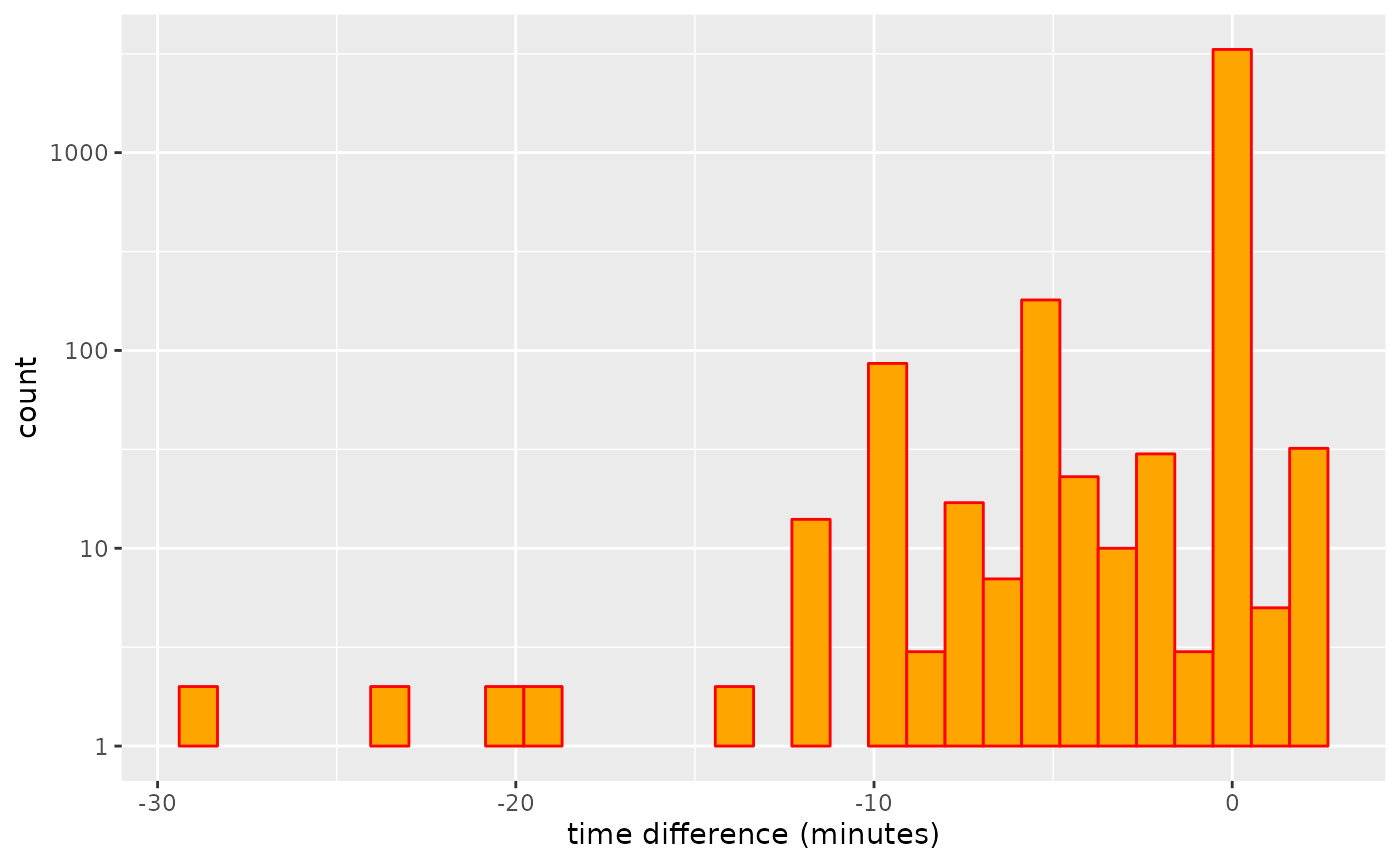
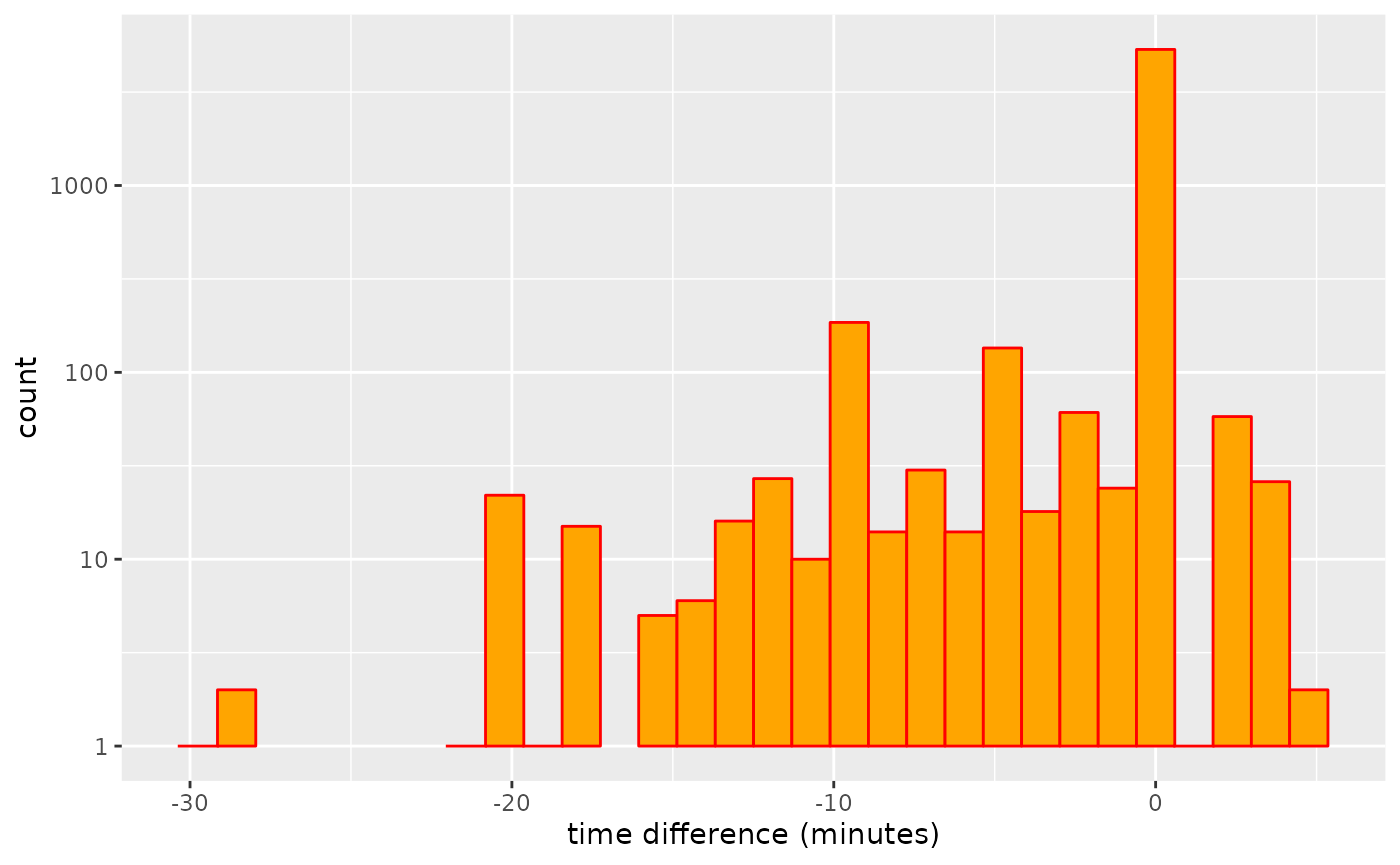
Deploying to gh-pages from @ ATFutures/gtfs-router@daab5e3dba100718a927b354c7a7a9c2231aa080 🚀

diff --git a/docs/articles/transfers.html b/docs/articles/transfers.html
@@ -33,7 +33,7 @@
       </button>
       <span class="navbar-brand">
         <a class="navbar-link" href="../index.html">gtfsrouter</a>
-        <span class="version label label-default" data-toggle="tooltip" data-placement="bottom" title="">0.0.5.096</span>
+        <span class="version label label-default" data-toggle="tooltip" data-placement="bottom" title="">0.0.5.100</span>
       </span>
     </div>
 
@@ -447,7 +447,7 @@
 <span>    <span class="fu"><a href="https://ggplot2.tidyverse.org/reference/scale_continuous.html" class="external-link">scale_y_log10</a></span> <span class="op">(</span><span class="op">)</span> <span class="op">+</span></span>
 <span>    <span class="fu"><a href="https://ggplot2.tidyverse.org/reference/labs.html" class="external-link">xlab</a></span> <span class="op">(</span><span class="st">"time difference (minutes)"</span><span class="op">)</span></span></code></pre></div>
 <p><img src="transfers_files/figure-html/plot1-1.png" width="700"></p>
-<p>And these additional transfer possibilities can make a significant difference to estimated travel times. Note, however, that the travel times only changed for 416 stations, while the value of <code>nsame</code> value recording numbers of stations for which travel times did not change was 3,536. Travel times may also increase as additional transfers may be used to reduce numbers of connecting services required for a particular trip, and the algorithm generally searches for connections with minimal numbers of transfers.</p>
+<p>And these additional transfer possibilities can make a significant difference to estimated travel times. Note, however, that the travel times only changed for 669 stations, while the value of <code>nsame</code> value recording numbers of stations for which travel times did not change was 5,384. Travel times may also increase as additional transfers may be used to reduce numbers of connecting services required for a particular trip, and the algorithm generally searches for connections with minimal numbers of transfers.</p>
 <p>The following code the quantifies the overall effect of these reductions in travel times, measured as the linear reduction in comparison with travel times calculated using the original transfers table provided with the feed. The function also returns the proportion of all stations for which travel times were affected by the modified transfer table.</p>
 <div class="sourceCode" id="cb42"><pre class="downlit sourceCode r">
 <code class="sourceCode R"><span><span class="va">transfer_difference</span> <span class="op">&lt;-</span> <span class="kw">function</span> <span class="op">(</span><span class="va">gtfs</span>,</span>
@@ -514,7 +514,7 @@
 <span>    <span class="fu"><a href="https://ggplot2.tidyverse.org/reference/geom_point.html" class="external-link">geom_point</a></span> <span class="op">(</span>pch <span class="op">=</span> <span class="fl">19</span>, col <span class="op">=</span> <span class="st">"orange"</span><span class="op">)</span> <span class="op">+</span></span>
 <span>    <span class="fu"><a href="https://ggplot2.tidyverse.org/reference/geom_smooth.html" class="external-link">geom_smooth</a></span> <span class="op">(</span>method <span class="op">=</span> <span class="st">"loess"</span>, formula <span class="op">=</span> <span class="st">"y ~ x"</span><span class="op">)</span></span></code></pre></div>
 <p><img src="transfers_files/figure-html/transfer_d_limit_results-1.png" width="700"></p>
-<p>That result shows that travel times do decrease with increasing limits of maximal transfer distance, although the overall effect is very minimal. The object <code>d</code> also records the proportion of station pairs for which modifications to the transfers table actually changed travel times, which in this case amounts to a mean value of 0.0053, clearly revealing that very few trips actually change.</p>
+<p>That result shows that travel times do decrease with increasing limits of maximal transfer distance, although the overall effect is very minimal. The object <code>d</code> also records the proportion of station pairs for which modifications to the transfers table actually changed travel times, which in this case amounts to a mean value of 0.0038, clearly revealing that very few trips actually change.</p>
 <div class="section level3">
 <h3 id="a-more-realistic-example">A more realistic example<a class="anchor" aria-label="anchor" href="#a-more-realistic-example"></a>
 </h3>

diff --git a/docs/articles/gtfsrouter.html b/docs/articles/gtfsrouter.html
@@ -33,7 +33,7 @@
       </button>
       <span class="navbar-brand">
         <a class="navbar-link" href="../index.html">gtfsrouter</a>
-        <span class="version label label-default" data-toggle="tooltip" data-placement="bottom" title="">0.0.5.096</span>
+        <span class="version label label-default" data-toggle="tooltip" data-placement="bottom" title="">0.0.5.100</span>
       </span>
     </div>
 
@@ -95,7 +95,7 @@
 <p>The one thing neither of these packages enable is the use of GTFS data for transit routing. The <code>gtfsrouter</code> package enables both one-to-one and one-to-many routing. Functionality is demonstrated here through the sample data set included with the package, provided by the “Verkehrsverbund Berlin-Brandenburg” (VBB; or Transport Network Berlin-Brandenburg). The <code>berlin_gtfs</code> data represents a reduced version of the full GTFS data, containing only six tables, and a timetable reduced to the single hour between 12:00-13:00. Like all GTFS software including <a href="https://github.com/r-transit/tidytransit" class="external-link"><code>tidytransit</code></a>, this package is designed to work directly with GTFS data in <code>.zip</code>-archived format, and so includes a helper function, <code><a href="../reference/berlin_gtfs_to_zip.html">berlin_gtfs_to_zip()</a></code>, which exports the internal data set to a locally-stored <code>.zip</code> archive in the <code><a href="https://rdrr.io/r/base/tempfile.html" class="external-link">tempdir()</a></code> of the current <strong>R</strong> session. These data can be exported and re-imported with:</p>
 <div class="sourceCode" id="cb1"><pre class="downlit sourceCode r">
 <code class="sourceCode R"><span><span class="fu"><a href="../reference/berlin_gtfs_to_zip.html">berlin_gtfs_to_zip</a></span><span class="op">(</span><span class="op">)</span></span></code></pre></div>
-<pre><code><span><span class="co">## [1] "/tmp/RtmpdI09K3/vbb.zip"</span></span></code></pre>
+<pre><code><span><span class="co">## [1] "/tmp/Rtmpo3vffr/vbb.zip"</span></span></code></pre>
 <div class="sourceCode" id="cb3"><pre class="downlit sourceCode r">
 <code class="sourceCode R"><span><span class="va">f</span> <span class="op">&lt;-</span> <span class="fu"><a href="https://rdrr.io/r/base/file.path.html" class="external-link">file.path</a></span> <span class="op">(</span><span class="fu"><a href="https://rdrr.io/r/base/tempfile.html" class="external-link">tempdir</a></span> <span class="op">(</span><span class="op">)</span>, <span class="st">"vbb.zip"</span><span class="op">)</span></span>
 <span><span class="fu"><a href="https://rdrr.io/r/base/files.html" class="external-link">file.exists</a></span> <span class="op">(</span><span class="va">f</span><span class="op">)</span></span></code></pre></div>
@@ -286,7 +286,7 @@
 <span>                day <span class="op">=</span> <span class="st">"Sunday"</span><span class="op">)</span></span>
 <span>    <span class="op">)</span></span></code></pre></div>
 <pre><code><span><span class="co">##    user  system elapsed </span></span>
-<span><span class="co">##   0.072   0.000   0.071</span></span></code></pre>
+<span><span class="co">##   0.073   0.000   0.073</span></span></code></pre>
 <div class="sourceCode" id="cb14"><pre class="downlit sourceCode r">
 <code class="sourceCode R"><span><span class="fu"><a href="https://rdrr.io/r/base/names.html" class="external-link">names</a></span> <span class="op">(</span><span class="va">gtfs</span><span class="op">)</span></span></code></pre></div>
 <pre><code><span><span class="co">## [1] "calendar"   "routes"     "trips"      "stop_times" "stops"     </span></span>
@@ -304,7 +304,7 @@
 <span>                         to <span class="op">=</span> <span class="va">to</span>,</span>
 <span>                         start_time <span class="op">=</span> <span class="st">"12:00:00"</span><span class="op">)</span><span class="op">)</span></span></code></pre></div>
 <pre><code><span><span class="co">##    user  system elapsed </span></span>
-<span><span class="co">##   0.059   0.000   0.060</span></span></code></pre>
+<span><span class="co">##   0.059   0.000   0.059</span></span></code></pre>
 <p>Note that the <code>day</code> parameter is used to extract the timetable, after which it is no longer required in the actual call to <code><a href="../reference/gtfs_route.html">gtfs_route()</a></code>.</p>
 </div>
 <div class="section level3">

diff --git a/docs/reference/gtfs_transfer_table.html b/docs/reference/gtfs_transfer_table.html
@@ -17,7 +17,7 @@
       </button>
       <span class="navbar-brand">
         <a class="navbar-link" href="../index.html">gtfsrouter</a>
-        <span class="version label label-default" data-toggle="tooltip" data-placement="bottom" title="">0.0.5.096</span>
+        <span class="version label label-default" data-toggle="tooltip" data-placement="bottom" title="">0.0.5.100</span>
       </span>
     </div>
 
@@ -112,7 +112,7 @@ throughout the underlying street network. If this is not provided as the
     <div id="ref-examples">
     <h2>Examples</h2>
     <div class="sourceCode"><pre class="sourceCode r"><code><span class="r-in"><span><span class="fu"><a href="berlin_gtfs_to_zip.html">berlin_gtfs_to_zip</a></span> <span class="op">(</span><span class="op">)</span></span></span>
-<span class="r-out co"><span class="r-pr">#&gt;</span> [1] "/tmp/RtmpcWQtMZ/vbb.zip"</span>
+<span class="r-out co"><span class="r-pr">#&gt;</span> [1] "/tmp/Rtmp73Rf3x/vbb.zip"</span>
 <span class="r-in"><span><span class="va">f</span> <span class="op">&lt;-</span> <span class="fu"><a href="https://rdrr.io/r/base/file.path.html" class="external-link">file.path</a></span> <span class="op">(</span><span class="fu"><a href="https://rdrr.io/r/base/tempfile.html" class="external-link">tempdir</a></span> <span class="op">(</span><span class="op">)</span>, <span class="st">"vbb.zip"</span><span class="op">)</span></span></span>
 <span class="r-in"><span><span class="va">g</span> <span class="op">&lt;-</span> <span class="fu"><a href="extract_gtfs.html">extract_gtfs</a></span> <span class="op">(</span><span class="va">f</span>, quiet <span class="op">=</span> <span class="cn">TRUE</span><span class="op">)</span></span></span>
 <span class="r-in"><span><span class="va">g</span> <span class="op">&lt;-</span> <span class="fu">gtfs_transfer_table</span> <span class="op">(</span><span class="va">g</span>, d_limit <span class="op">=</span> <span class="fl">200</span><span class="op">)</span></span></span>

diff --git a/docs/reference/gtfs_route.html b/docs/reference/gtfs_route.html
@@ -18,7 +18,7 @@ a specified time."><!-- mathjax --><script src="https://cdnjs.cloudflare.com/aja
       </button>
       <span class="navbar-brand">
         <a class="navbar-link" href="../index.html">gtfsrouter</a>
-        <span class="version label label-default" data-toggle="tooltip" data-placement="bottom" title="">0.0.5.096</span>
+        <span class="version label label-default" data-toggle="tooltip" data-placement="bottom" title="">0.0.5.100</span>
       </span>
     </div>
 
@@ -182,7 +182,7 @@ can be calculated by setting <code>earliest_arrival = FALSE</code>.</p>
     <div id="ref-examples">
     <h2>Examples</h2>
     <div class="sourceCode"><pre class="sourceCode r"><code><span class="r-in"><span><span class="fu"><a href="berlin_gtfs_to_zip.html">berlin_gtfs_to_zip</a></span> <span class="op">(</span><span class="op">)</span> <span class="co"># Write sample feed from Berlin, Germany to tempdir</span></span></span>
-<span class="r-out co"><span class="r-pr">#&gt;</span> [1] "/tmp/RtmpcWQtMZ/vbb.zip"</span>
+<span class="r-out co"><span class="r-pr">#&gt;</span> [1] "/tmp/Rtmp73Rf3x/vbb.zip"</span>
 <span class="r-in"><span><span class="va">f</span> <span class="op">&lt;-</span> <span class="fu"><a href="https://rdrr.io/r/base/file.path.html" class="external-link">file.path</a></span> <span class="op">(</span><span class="fu"><a href="https://rdrr.io/r/base/tempfile.html" class="external-link">tempdir</a></span> <span class="op">(</span><span class="op">)</span>, <span class="st">"vbb.zip"</span><span class="op">)</span> <span class="co"># name of feed</span></span></span>
 <span class="r-in"><span><span class="va">gtfs</span> <span class="op">&lt;-</span> <span class="fu"><a href="extract_gtfs.html">extract_gtfs</a></span> <span class="op">(</span><span class="va">f</span><span class="op">)</span></span></span>
 <span class="r-msg co"><span class="r-pr">#&gt;</span> ▶<span style="color: #00BB00;"> Unzipping GTFS archive</span></span>

diff --git a/docs/articles/traveltimes.html b/docs/articles/traveltimes.html
@@ -33,7 +33,7 @@
       </button>
       <span class="navbar-brand">
         <a class="navbar-link" href="../index.html">gtfsrouter</a>
-        <span class="version label label-default" data-toggle="tooltip" data-placement="bottom" title="">0.0.5.096</span>
+        <span class="version label label-default" data-toggle="tooltip" data-placement="bottom" title="">0.0.5.100</span>
       </span>
     </div>
 
@@ -86,7 +86,7 @@
 <div class="sourceCode" id="cb1"><pre class="downlit sourceCode r">
 <code class="sourceCode R"><span><span class="kw"><a href="https://rdrr.io/r/base/library.html" class="external-link">library</a></span> <span class="op">(</span><span class="va"><a href="https://github.com/ATFutures/gtfs-router" class="external-link">gtfsrouter</a></span><span class="op">)</span></span>
 <span><span class="fu"><a href="../reference/berlin_gtfs_to_zip.html">berlin_gtfs_to_zip</a></span> <span class="op">(</span><span class="op">)</span></span></code></pre></div>
-<pre><code><span><span class="co">## [1] "/tmp/RtmpBTGnGI/vbb.zip"</span></span></code></pre>
+<pre><code><span><span class="co">## [1] "/tmp/Rtmpqy8Cuo/vbb.zip"</span></span></code></pre>
 <div class="sourceCode" id="cb3"><pre class="downlit sourceCode r">
 <code class="sourceCode R"><span><span class="va">f</span> <span class="op">&lt;-</span> <span class="fu"><a href="https://rdrr.io/r/base/file.path.html" class="external-link">file.path</a></span> <span class="op">(</span><span class="fu"><a href="https://rdrr.io/r/base/tempfile.html" class="external-link">tempdir</a></span> <span class="op">(</span><span class="op">)</span>, <span class="st">"vbb.zip"</span><span class="op">)</span></span>
 <span><span class="va">gtfs</span> <span class="op">&lt;-</span> <span class="fu"><a href="../reference/extract_gtfs.html">extract_gtfs</a></span> <span class="op">(</span><span class="va">f</span>, quiet <span class="op">=</span> <span class="cn">TRUE</span><span class="op">)</span></span>

diff --git a/docs/reference/berlin_gtfs.html b/docs/reference/berlin_gtfs.html
@@ -23,7 +23,7 @@ characters.'><!-- mathjax --><script src="https://cdnjs.cloudflare.com/ajax/libs
       </button>
       <span class="navbar-brand">
         <a class="navbar-link" href="../index.html">gtfsrouter</a>
-        <span class="version label label-default" data-toggle="tooltip" data-placement="bottom" title="">0.0.5.096</span>
+        <span class="version label label-default" data-toggle="tooltip" data-placement="bottom" title="">0.0.5.100</span>
       </span>
     </div>
 
@@ -96,7 +96,7 @@ for which no route is possible return <code>NULL</code>.</p>
     <div id="ref-examples">
     <h2>Examples</h2>
     <div class="sourceCode"><pre class="sourceCode r"><code><span class="r-in"><span><span class="fu"><a href="berlin_gtfs_to_zip.html">berlin_gtfs_to_zip</a></span> <span class="op">(</span><span class="op">)</span> <span class="co"># Write sample feed from Berlin, Germany to tempdir</span></span></span>
-<span class="r-out co"><span class="r-pr">#&gt;</span> [1] "/tmp/RtmpcWQtMZ/vbb.zip"</span>
+<span class="r-out co"><span class="r-pr">#&gt;</span> [1] "/tmp/Rtmp73Rf3x/vbb.zip"</span>
 <span class="r-in"><span><span class="va">f</span> <span class="op">&lt;-</span> <span class="fu"><a href="https://rdrr.io/r/base/file.path.html" class="external-link">file.path</a></span> <span class="op">(</span><span class="fu"><a href="https://rdrr.io/r/base/tempfile.html" class="external-link">tempdir</a></span> <span class="op">(</span><span class="op">)</span>, <span class="st">"vbb.zip"</span><span class="op">)</span> <span class="co"># name of feed</span></span></span>
 <span class="r-in"><span><span class="va">gtfs</span> <span class="op">&lt;-</span> <span class="fu"><a href="extract_gtfs.html">extract_gtfs</a></span> <span class="op">(</span><span class="va">f</span><span class="op">)</span></span></span>
 <span class="r-msg co"><span class="r-pr">#&gt;</span> ▶<span style="color: #00BB00;"> Unzipping GTFS archive</span></span>

diff --git a/docs/reference/gtfs_timetable.html b/docs/reference/gtfs_timetable.html
@@ -17,7 +17,7 @@
       </button>
       <span class="navbar-brand">
         <a class="navbar-link" href="../index.html">gtfsrouter</a>
-        <span class="version label label-default" data-toggle="tooltip" data-placement="bottom" title="">0.0.5.096</span>
+        <span class="version label label-default" data-toggle="tooltip" data-placement="bottom" title="">0.0.5.100</span>
       </span>
     </div>
 
@@ -126,7 +126,7 @@ that case will generally take longer.</p>
     <div id="ref-examples">
     <h2>Examples</h2>
     <div class="sourceCode"><pre class="sourceCode r"><code><span class="r-in"><span><span class="fu"><a href="berlin_gtfs_to_zip.html">berlin_gtfs_to_zip</a></span> <span class="op">(</span><span class="op">)</span> <span class="co"># Write sample feed from Berlin, Germany to tempdir</span></span></span>
-<span class="r-out co"><span class="r-pr">#&gt;</span> [1] "/tmp/RtmpcWQtMZ/vbb.zip"</span>
+<span class="r-out co"><span class="r-pr">#&gt;</span> [1] "/tmp/Rtmp73Rf3x/vbb.zip"</span>
 <span class="r-in"><span><span class="va">f</span> <span class="op">&lt;-</span> <span class="fu"><a href="https://rdrr.io/r/base/file.path.html" class="external-link">file.path</a></span> <span class="op">(</span><span class="fu"><a href="https://rdrr.io/r/base/tempfile.html" class="external-link">tempdir</a></span> <span class="op">(</span><span class="op">)</span>, <span class="st">"vbb.zip"</span><span class="op">)</span> <span class="co"># name of feed</span></span></span>
 <span class="r-in"><span><span class="va">gtfs</span> <span class="op">&lt;-</span> <span class="fu"><a href="extract_gtfs.html">extract_gtfs</a></span> <span class="op">(</span><span class="va">f</span><span class="op">)</span></span></span>
 <span class="r-msg co"><span class="r-pr">#&gt;</span> ▶<span style="color: #00BB00;"> Unzipping GTFS archive</span></span>

diff --git a/docs/reference/gtfs_traveltimes.html b/docs/reference/gtfs_traveltimes.html
@@ -18,7 +18,7 @@ other reachable station in a system."><!-- mathjax --><script src="https://cdnjs
       </button>
       <span class="navbar-brand">
         <a class="navbar-link" href="../index.html">gtfsrouter</a>
-        <span class="version label label-default" data-toggle="tooltip" data-placement="bottom" title="">0.0.5.096</span>
+        <span class="version label label-default" data-toggle="tooltip" data-placement="bottom" title="">0.0.5.100</span>
       </span>
     </div>
 
@@ -155,7 +155,7 @@ to reach all or most stations desired for a particular query, rather than set
     <div id="ref-examples">
     <h2>Examples</h2>
     <div class="sourceCode"><pre class="sourceCode r"><code><span class="r-in"><span><span class="fu"><a href="berlin_gtfs_to_zip.html">berlin_gtfs_to_zip</a></span> <span class="op">(</span><span class="op">)</span></span></span>
-<span class="r-out co"><span class="r-pr">#&gt;</span> [1] "/tmp/RtmpcWQtMZ/vbb.zip"</span>
+<span class="r-out co"><span class="r-pr">#&gt;</span> [1] "/tmp/Rtmp73Rf3x/vbb.zip"</span>
 <span class="r-in"><span><span class="va">f</span> <span class="op">&lt;-</span> <span class="fu"><a href="https://rdrr.io/r/base/file.path.html" class="external-link">file.path</a></span> <span class="op">(</span><span class="fu"><a href="https://rdrr.io/r/base/tempfile.html" class="external-link">tempdir</a></span> <span class="op">(</span><span class="op">)</span>, <span class="st">"vbb.zip"</span><span class="op">)</span></span></span>
 <span class="r-in"><span><span class="va">g</span> <span class="op">&lt;-</span> <span class="fu"><a href="extract_gtfs.html">extract_gtfs</a></span> <span class="op">(</span><span class="va">f</span><span class="op">)</span></span></span>
 <span class="r-msg co"><span class="r-pr">#&gt;</span> ▶<span style="color: #00BB00;"> Unzipping GTFS archive</span></span>

diff --git a/docs/reference/extract_gtfs.html b/docs/reference/extract_gtfs.html
@@ -17,7 +17,7 @@
       </button>
       <span class="navbar-brand">
         <a class="navbar-link" href="../index.html">gtfsrouter</a>
-        <span class="version label label-default" data-toggle="tooltip" data-placement="bottom" title="">0.0.5.096</span>
+        <span class="version label label-default" data-toggle="tooltip" data-placement="bottom" title="">0.0.5.100</span>
       </span>
     </div>
 
@@ -102,7 +102,7 @@ function to the two time columns of the "stop_times" table.</p>
     <div id="ref-examples">
     <h2>Examples</h2>
     <div class="sourceCode"><pre class="sourceCode r"><code><span class="r-in"><span><span class="fu"><a href="berlin_gtfs_to_zip.html">berlin_gtfs_to_zip</a></span> <span class="op">(</span><span class="op">)</span> <span class="co"># Write sample feed from Berlin, Germany to tempdir</span></span></span>
-<span class="r-out co"><span class="r-pr">#&gt;</span> [1] "/tmp/RtmpcWQtMZ/vbb.zip"</span>
+<span class="r-out co"><span class="r-pr">#&gt;</span> [1] "/tmp/Rtmp73Rf3x/vbb.zip"</span>
 <span class="r-in"><span><span class="va">f</span> <span class="op">&lt;-</span> <span class="fu"><a href="https://rdrr.io/r/base/file.path.html" class="external-link">file.path</a></span> <span class="op">(</span><span class="fu"><a href="https://rdrr.io/r/base/tempfile.html" class="external-link">tempdir</a></span> <span class="op">(</span><span class="op">)</span>, <span class="st">"vbb.zip"</span><span class="op">)</span> <span class="co"># name of feed</span></span></span>
 <span class="r-in"><span><span class="va">gtfs</span> <span class="op">&lt;-</span> <span class="fu">extract_gtfs</span> <span class="op">(</span><span class="va">f</span><span class="op">)</span></span></span>
 <span class="r-msg co"><span class="r-pr">#&gt;</span> ▶<span style="color: #00BB00;"> Unzipping GTFS archive</span></span>

diff --git a/docs/reference/summary.gtfs.html b/docs/reference/summary.gtfs.html
@@ -17,7 +17,7 @@
       </button>
       <span class="navbar-brand">
         <a class="navbar-link" href="../index.html">gtfsrouter</a>
-        <span class="version label label-default" data-toggle="tooltip" data-placement="bottom" title="">0.0.5.096</span>
+        <span class="version label label-default" data-toggle="tooltip" data-placement="bottom" title="">0.0.5.100</span>
       </span>
     </div>
 
@@ -81,7 +81,7 @@
     <div id="ref-examples">
     <h2>Examples</h2>
     <div class="sourceCode"><pre class="sourceCode r"><code><span class="r-in"><span><span class="fu"><a href="berlin_gtfs_to_zip.html">berlin_gtfs_to_zip</a></span> <span class="op">(</span><span class="op">)</span></span></span>
-<span class="r-out co"><span class="r-pr">#&gt;</span> [1] "/tmp/RtmpcWQtMZ/vbb.zip"</span>
+<span class="r-out co"><span class="r-pr">#&gt;</span> [1] "/tmp/Rtmp73Rf3x/vbb.zip"</span>
 <span class="r-in"><span><span class="va">f</span> <span class="op">&lt;-</span> <span class="fu"><a href="https://rdrr.io/r/base/file.path.html" class="external-link">file.path</a></span> <span class="op">(</span><span class="fu"><a href="https://rdrr.io/r/base/tempfile.html" class="external-link">tempdir</a></span> <span class="op">(</span><span class="op">)</span>, <span class="st">"vbb.zip"</span><span class="op">)</span></span></span>
 <span class="r-in"><span><span class="va">g</span> <span class="op">&lt;-</span> <span class="fu"><a href="extract_gtfs.html">extract_gtfs</a></span> <span class="op">(</span><span class="va">f</span><span class="op">)</span></span></span>
 <span class="r-msg co"><span class="r-pr">#&gt;</span> ▶<span style="color: #00BB00;"> Unzipping GTFS archive</span></span>

diff --git a/docs/authors.html b/docs/authors.html
@@ -17,7 +17,7 @@
       </button>
       <span class="navbar-brand">
         <a class="navbar-link" href="index.html">gtfsrouter</a>
-        <span class="version label label-default" data-toggle="tooltip" data-placement="bottom" title="">0.0.5.096</span>
+        <span class="version label label-default" data-toggle="tooltip" data-placement="bottom" title="">0.0.5.100</span>
       </span>
     </div>
 
@@ -74,13 +74,13 @@
 
     <p>Padgham M, Stepniak M (2022).
 <em>gtfsrouter: Routing with GTFS (General Transit Feed Specification) Data</em>.
-R package version 0.0.5.096, <a href="https://github.com/ATFutures/gtfs-router" class="external-link">https://github.com/ATFutures/gtfs-router</a>. 
+R package version 0.0.5.100, <a href="https://github.com/ATFutures/gtfs-router" class="external-link">https://github.com/ATFutures/gtfs-router</a>. 
 </p>
     <pre>@Manual{,
   title = {gtfsrouter: Routing with GTFS (General Transit Feed Specification) Data},
   author = {Mark Padgham and Marcin Stepniak},
   year = {2022},
-  note = {R package version 0.0.5.096},
+  note = {R package version 0.0.5.100},
   url = {https://github.com/ATFutures/gtfs-router},
 }</pre>
 

diff --git a/docs/reference/berlin_gtfs_to_zip.html b/docs/reference/berlin_gtfs_to_zip.html
@@ -18,7 +18,7 @@ a file named "vbb.zip" to tempdir().'><!-- mathjax --><script src="https://cdnjs
       </button>
       <span class="navbar-brand">
         <a class="navbar-link" href="../index.html">gtfsrouter</a>
-        <span class="version label label-default" data-toggle="tooltip" data-placement="bottom" title="">0.0.5.096</span>
+        <span class="version label label-default" data-toggle="tooltip" data-placement="bottom" title="">0.0.5.100</span>
       </span>
     </div>
 
